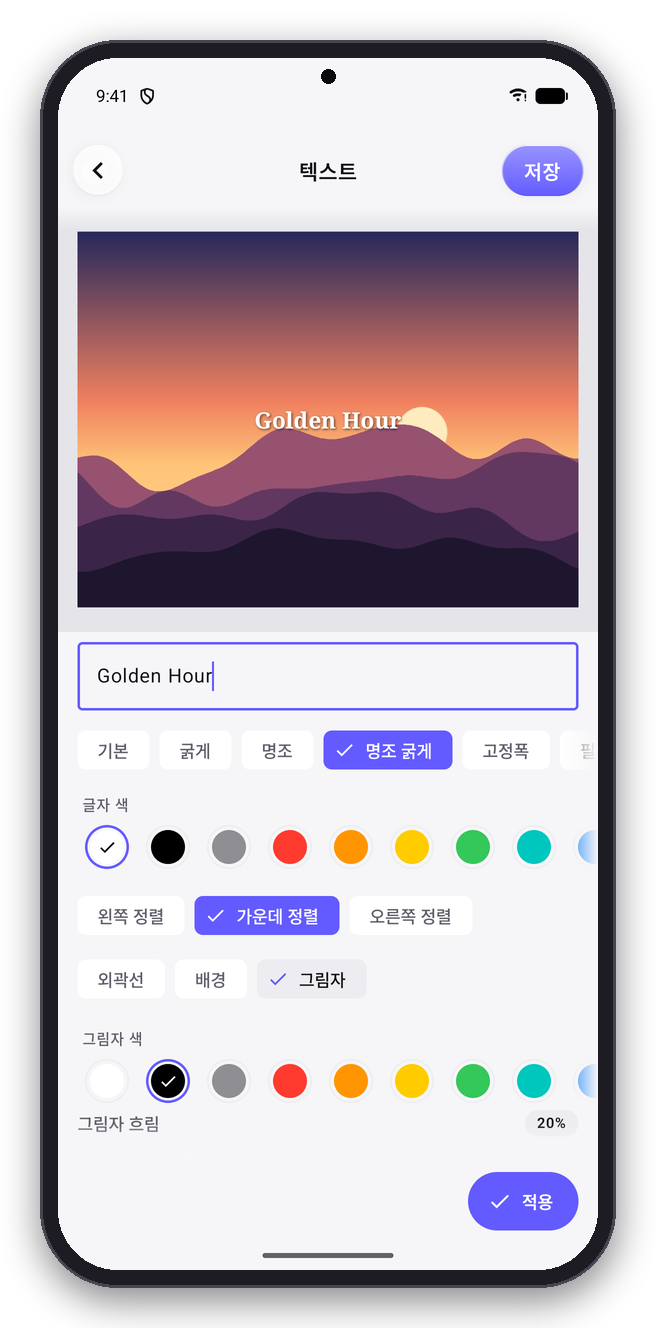
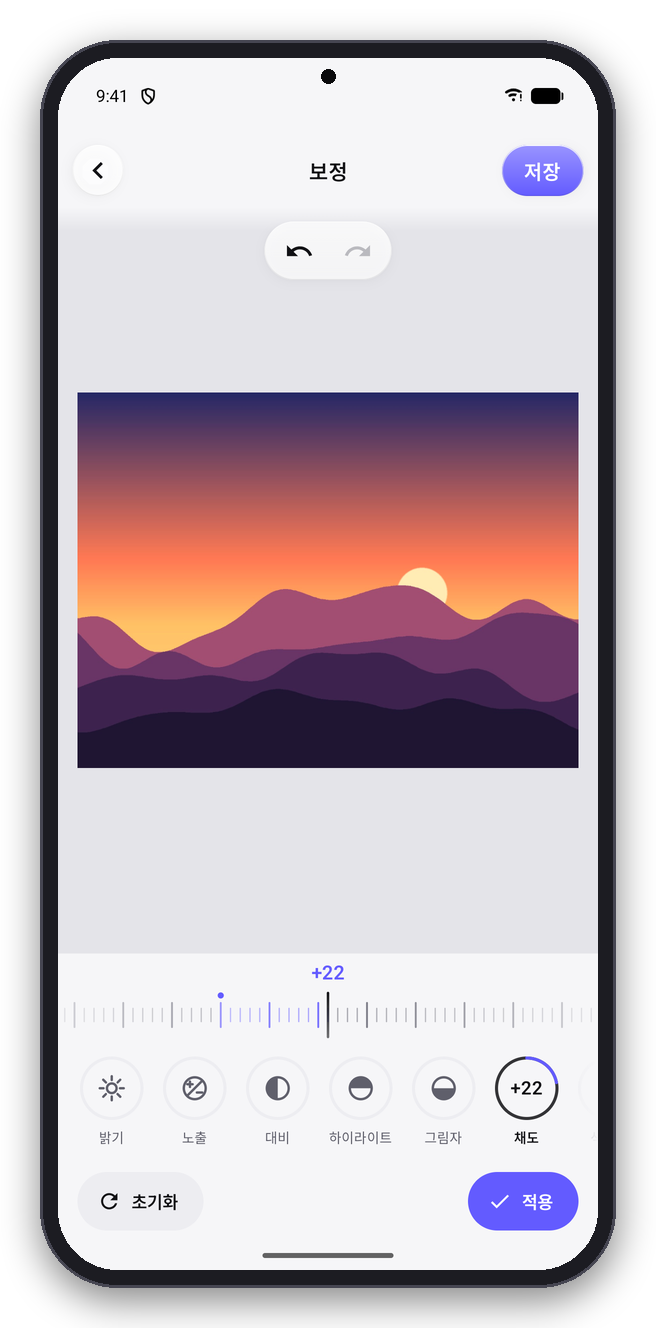
docs: README 사진 편집 이미지를 보정 화면으로 교체

diff --git a/README.md b/README.md
@@ -35,7 +35,7 @@
 
 <table>
   <tr>
-    <td align="center" width="25%"><img src="docs/images/screen-photo.png" width="200" alt="사진 편집"><br><b>사진 편집</b><br>텍스트·필터·스티커</td>
+    <td align="center" width="25%"><img src="docs/images/screen-photo.png" width="200" alt="사진 편집"><br><b>사진 편집</b><br>보정·필터·텍스트</td>
     <td align="center" width="25%"><img src="docs/images/screen-scan.png" width="200" alt="문서 스캔"><br><b>문서 스캔</b><br>원근 보정·여러 쪽 스캔</td>
     <td align="center" width="25%"><img src="docs/images/screen-gallery.png" width="200" alt="갤러리"><br><b>갤러리</b><br>앨범·순서·크게 보기</td>
     <td align="center" width="25%"><img src="docs/images/screen-video.png" width="200" alt="영상 편집"><br><b>영상 편집</b><br>클립·음악·음성 줄</td>
@@ -52,7 +52,7 @@
 
 <table>
   <tr>
-    <td align="center" width="25%"><img src="docs/images/screen-photo-light.png" width="200" alt="사진 편집"><br><b>사진 편집</b><br>텍스트·필터·스티커</td>
+    <td align="center" width="25%"><img src="docs/images/screen-photo-light.png" width="200" alt="사진 편집"><br><b>사진 편집</b><br>보정·필터·텍스트</td>
     <td align="center" width="25%"><img src="docs/images/screen-scan-light.png" width="200" alt="문서 스캔"><br><b>문서 스캔</b><br>원근 보정·여러 쪽 스캔</td>
     <td align="center" width="25%"><img src="docs/images/screen-gallery-light.png" width="200" alt="갤러리"><br><b>갤러리</b><br>앨범·순서·크게 보기</td>
     <td align="center" width="25%"><img src="docs/images/screen-video-light.png" width="200" alt="영상 편집"><br><b>영상 편집</b><br>클립·음악·음성 줄</td>
